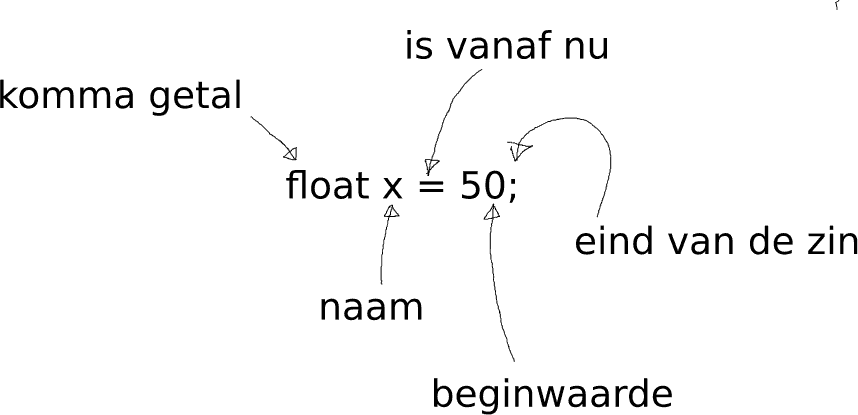
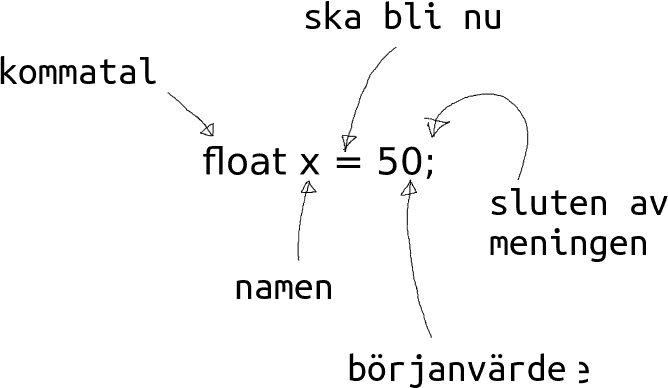
Bättre än före

diff --git a/kapitel/bollen_till_hoeger/README.md b/kapitel/bollen_till_hoeger/README.md
@@ -177,7 +177,7 @@ void draw()
 
 ![Dator](EmojiComputer.png) | ![Smiley](EmojiSmiley.png)
 :------------------:|:--------------------------------:
-`void setup () {}` | 'Kära dator, gör vad som helst inom lockiga parenteser.'
+`void setup () {}` | 'Kära dator, gör vad som helst inom lockiga parenteser .'
 
 \pagebreak
 
@@ -226,16 +226,14 @@ På den första raden använder vi en variabel:
 float x = 50;
 ```
 
-I klartext är detta: "Kära dator, kom ihåg talet `x` med ett initialvärde på `50`.".
+I klartext är detta: "Kära dator, kom ihåg talet `x` med ett börjanvärde på `50`.".
 
 ![Dator](EmojiComputer.png) | ![Smiley](EmojiSmiley.png)
 :-------------------:|:--------------------------------:
-`float x = 50;` | 'Kära dator, kom ihåg talet `x` med ett initialvärde på `50`.'
+`float x = 50;` | 'Kära dator, kom ihåg talet `x` med ett börjanvärde på `50`.'
 
 En variabel är ett datorminne med ett namn.
 Datorn kan använda det namnet för att avgöra var i minnet den ska leta.
-
-![Datornas minne](boll_till_hoeger_minne.jpg)
   
 Variabler som tillhör dig (och nästan varje människa) är: namn, ålder,
 födelsedatum, adress, telefonnummer, epostadress och mycket mer.
@@ -264,9 +262,9 @@ Semikolon (`;`) anger slutet på en mening (som punkten i en svensk text).
 
 ![Dator](EmojiComputer.png) | ![Smiley](EmojiSmiley.png)
 :-------------------:|:--------------------------------:
-`float` | 'Ett kommatal'
-`=`     | 'är från och med nu'
-`;`     | '.'
+`float` | 'ett kommatal'
+`=`     | 'ska bli nu'
+`;`     | 'sluten av meningen'
 
 \pagebreak
 
